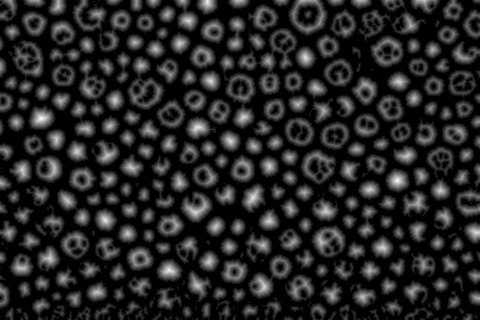
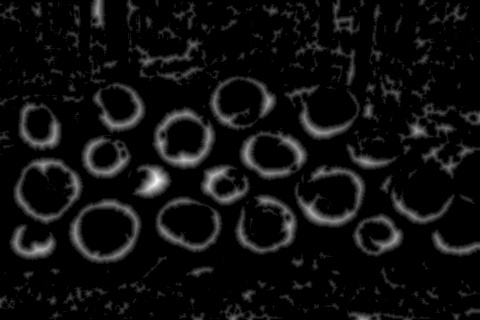
ewrtwertdfg

diff --git a/detect.py b/detect.py
@@ -10,6 +10,8 @@ from skimage.segmentation import quickshift, felzenszwalb, slic, watershed
 from skimage.feature import blob_dog, blob_log, blob_doh
 from skimage.feature import peak_local_max
 from scipy import ndimage as ndi
+import imutils
+
 
 from tkinter import Tk
 from tkinter.filedialog import askopenfilename
@@ -18,8 +20,10 @@ class CircleDetectorBuilder(object):
 
     #---------------------------------------------------------
     # TOP PRIORITY
+    # Noise Reduction
+    
+    
     # Blob Descriptor for texture recongnition
-    # Blob Detection https://scikit-image.org/docs/stable/auto_examples/features_detection/plot_blob.html#sphx-glr-auto-examples-features-detection-plot-blob-py
     # Local Binary Pattern for texture classification https://scikit-image.org/docs/stable/auto_examples/features_detection/plot_local_binary_pattern.html
     # Compute Chi squared distance metric: sum((X-Y)^2 / (X+Y)) for finding C in adaptive threshold
     # Gabor Filter https://scikit-image.org/docs/stable/auto_examples/features_detection/plot_gabor.html
@@ -190,7 +194,7 @@ class CircleDetectorBuilder(object):
         self.push_image()
         return self
     
-    def with_morphology(self, operation=cv2.MORPH_OPEN, kernelX=5, kernelY=5, iterations=1):
+    def with_morphology(self, operation=cv2.MORPH_OPEN, kernelX=3, kernelY=3, iterations=1):
         kernel = cv2.getStructuringElement(cv2.MORPH_RECT, (kernelX, kernelY))
         self.img = cv2.morphologyEx(self.img, operation, kernel, iterations)
         self.push_image()
@@ -218,7 +222,7 @@ class CircleDetectorBuilder(object):
         dist2 = dist2.astype(np.uint8)
         #self.with_adaptive_threshold(31, self.C, maxValue=0.1 * dist.max())
         #ret, sure_fg = cv2.threshold(dist, 0.01 * dist.max(), 255, cv2.THRESH_BINARY)
-        ret, sure_fg = cv2.threshold(dist2, 0.01 * dist2.max(), 255, cv2.THRESH_BINARY)
+        ret, sure_fg = cv2.threshold(dist2, 0.3 * dist2.max(), 255, cv2.THRESH_BINARY)
         
         sure_fg = self.img.astype(np.uint8)  
         cv2.imshow('Sure Foreground', sure_fg)
@@ -264,7 +268,7 @@ class CircleDetectorBuilder(object):
             tree.append(contours[0])
         
         # Draw the outline
-        #
+        
         #img = cv2.drawContours(self.originalImage, tree, -1, color=(255, 255, 255), thickness=1)
         self.img = cv2.drawContours(self.originalImage.copy(), tree, -1, color=(255, 255, 255), thickness=cv2.FILLED)
         cv2.imshow("Contours",self.img)
@@ -288,10 +292,10 @@ class CircleDetectorBuilder(object):
         
         # Set Area filtering parameters
         params.filterByArea = True        
-        params.minArea = 10
+        params.minArea = 5
         
         # Set Circularity filtering parameters
-        params.filterByCircularity = True 
+        params.filterByCircularity = False 
         params.minCircularity = 0.1
         
         # Set Convexity filtering parameters
@@ -306,10 +310,6 @@ class CircleDetectorBuilder(object):
         detector = cv2.SimpleBlobDetector_create(params)
 
         cv2.imshow("before detection", self.img)
-        
-        #_, self.img = cv2.threshold(self.img, 0, 255, cv2.THRESH_BINARY | cv2.THRESH_OTSU)
-        
-        #cv2.imshow("before detection threshold", self.img)
         
         # Detect blobs
         keypoints = detector.detect(self.img)
@@ -396,31 +396,36 @@ def k_means_segmentation(filename, K):
      
 def meanshift(filename):
     image = cv2.imread(filename)
-
+    image = cv2.resize(image, (420, 320))
+    image = cv2.pyrMeanShiftFiltering(image, 10, 10, maxLevel=1)
     # Convert the image to RGB format (scikit-image expects RGB)
     image_rgb = cv2.cvtColor(image, cv2.COLOR_BGR2RGB)
-    image_rgb_resized = cv2.resize(image_rgb, (480, 320))
-    image_lab = cv2.cvtColor(image_rgb_resized, cv2.COLOR_RGB2LAB)
+    image_lab = cv2.cvtColor(image_rgb, cv2.COLOR_RGB2LAB)
     
-    image_rgb_resized = cv2.GaussianBlur(image_rgb_resized, (5,5), 11, 11)
-    image_lab = cv2.pyrMeanShiftFiltering(image_lab, 5, 10, maxLevel=1)
+    #image_rgb_resized = cv2.GaussianBlur(image_rgb_resized, (5,5), 11, 11)
+    image_lab = cv2.pyrMeanShiftFiltering(image_lab, 20, 20, maxLevel=1)
+    
+    cv2.imshow("lab", image)
     
     # Apply quick Mean Shift-based segmentation
-    segments = quickshift(image_lab, ratio=0.5, max_dist=100)
+    segments = quickshift(image_lab, ratio=3.0, max_dist=50.0)
     
     print(len(segments))
     
     # Display the segmented grayscale image
     plt.figure(figsize=(8, 6))
     plt.subplot(121)
-    plt.imshow(segments, cmap='gray')
+    plt.imshow(segments, cmap='magma')
     plt.title('Segmented Grayscale Image')
     plt.axis('off')
     
     plt.subplot(122)
-    plt.imshow(image_rgb_resized)
+    plt.imshow(image_rgb)
     plt.title('Original Image')
     plt.show()
+    
+    cv2.waitKey(0)
+    cv2.destroyAllWindows()
 
 def felzenszwalb_segmentation(filename):
     image = cv2.imread(filename)
@@ -499,7 +504,7 @@ def chooseFile() -> str:
 if __name__ == "__main__":
     
     filename = chooseFile()
-    
+        
     # image = cv2.imread(filename)
     # image = cv2.resize(image, (480, 320))
     # image = cv2.GaussianBlur(image, (5,5), sigmaX=33, sigmaY=33)
@@ -593,30 +598,30 @@ if __name__ == "__main__":
 
 
     #Important
-    # cb = CircleDetectorBuilder(filename, True, -15) \
-    # .with_read_image() \
-    # .with_resize_absolute(480, 320) \
-    # .with_gaussian_blur(33, 33, kernelSize=(5,5)) \
-    # .with_pyr_mean_shift_filter(10,20, maxLevel=1) \
-    # .with_hue_shift() \
-    # .with_adaptive_threshold(67, 0) \
-    # .with_watershed() \
-    # .with_gaussian_blur(11, 11) \
-    # .with_detect_blobs_MSER() \
-    # .show()
-
-    #Important
-    cb = CircleDetectorBuilder(filename, True, 1) \
+    cb = CircleDetectorBuilder(filename, True, -15) \
     .with_read_image() \
     .with_resize_absolute(480, 320) \
-    .with_pyr_mean_shift_filter(10,12, maxLevel=1) \
-    .with_gaussian_blur(33, 33, (5,5)) \
+    .with_gaussian_blur(33, 33, kernelSize=(5,5)) \
+    .with_pyr_mean_shift_filter(10,20, maxLevel=1) \
     .with_hue_shift() \
-    .with_adaptive_threshold(21,0) \
+    .with_adaptive_threshold(67, 0) \
     .with_watershed() \
     .with_gaussian_blur(11, 11) \
     .with_detect_blobs_MSER() \
     .show()
+
+    #Important
+    # cb = CircleDetectorBuilder(filename, True, 15) \
+    # .with_read_image() \
+    # .with_resize_absolute(420, 320) \
+    # .with_gaussian_blur(33, 33, (3,3)) \
+    # .with_pyr_mean_shift_filter(20,20, maxLevel=1) \
+    # .with_hue_shift() \
+    # .with_adaptive_threshold(51, 0) \
+    # .with_watershed() \
+    # .with_gaussian_blur(11, 11) \
+    # .with_detect_blobs_MSER() \
+    # .show()
 
 
     # Background
